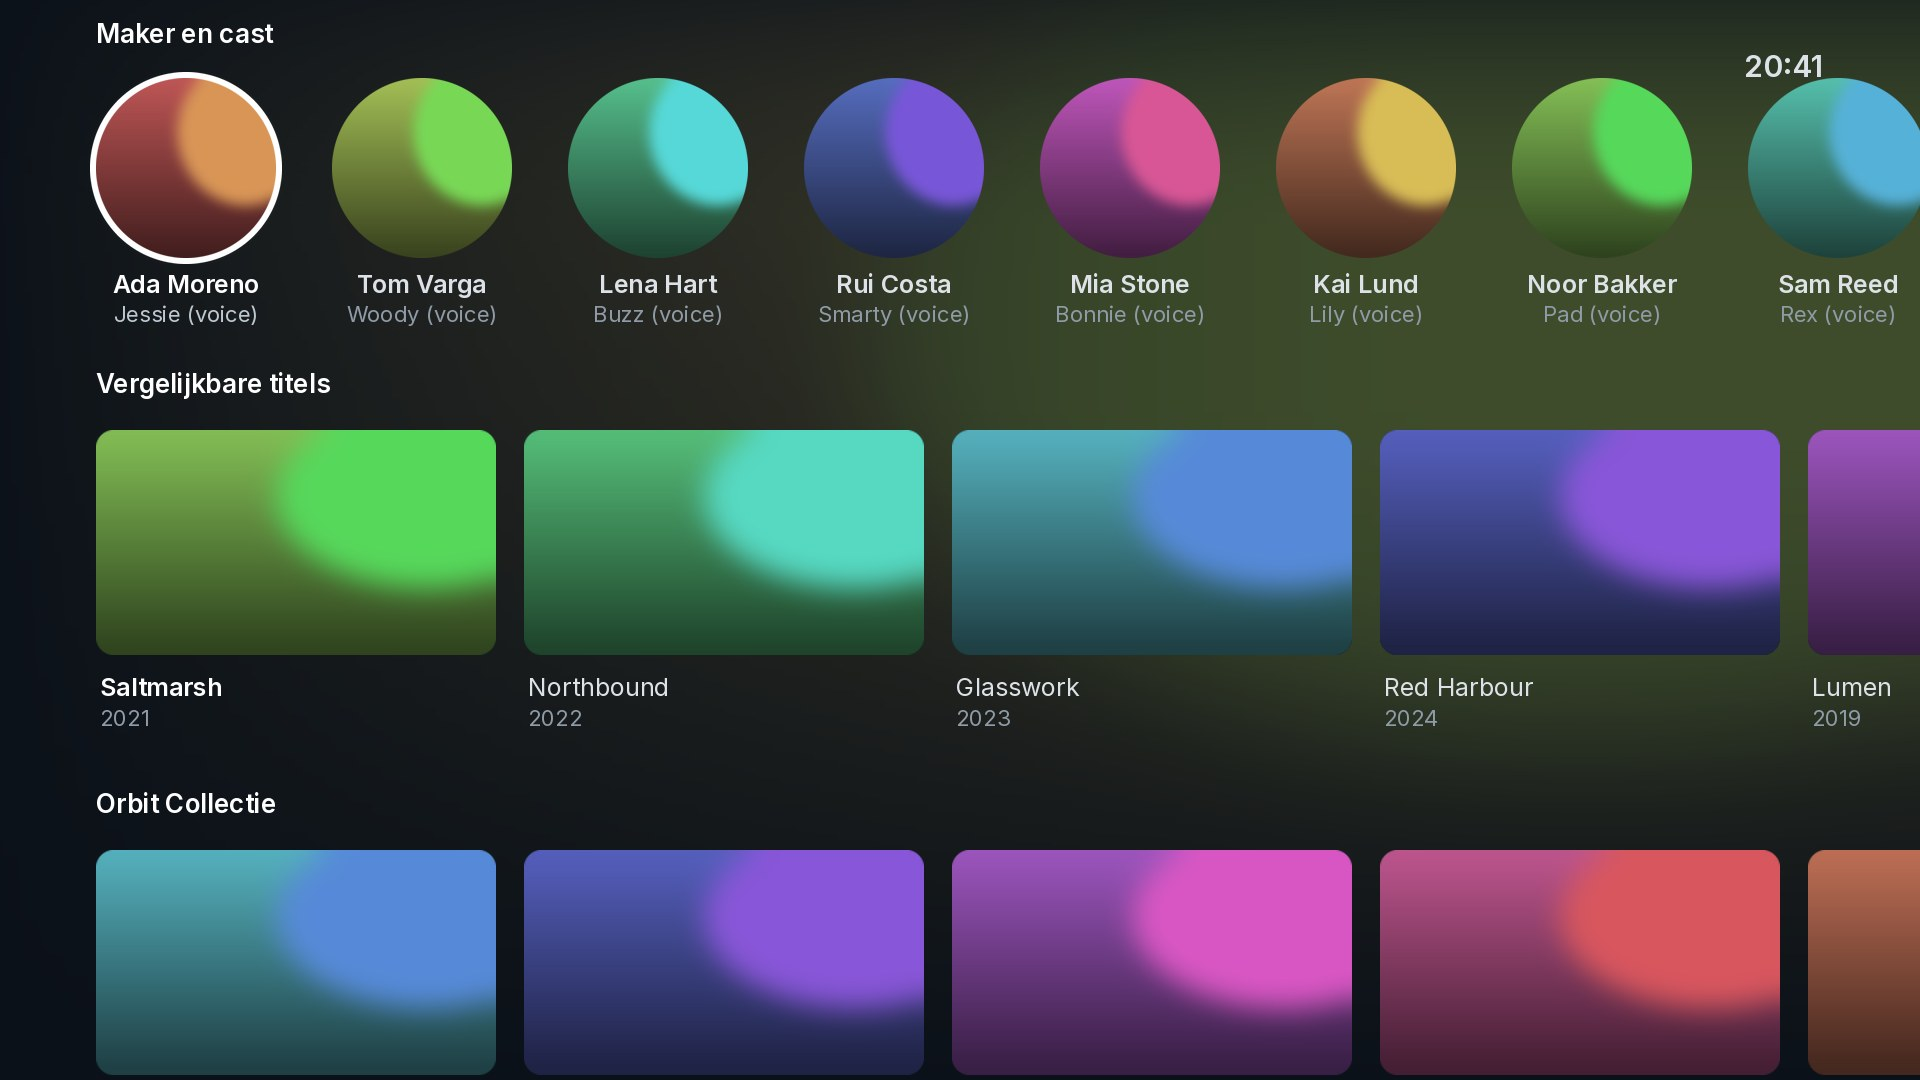
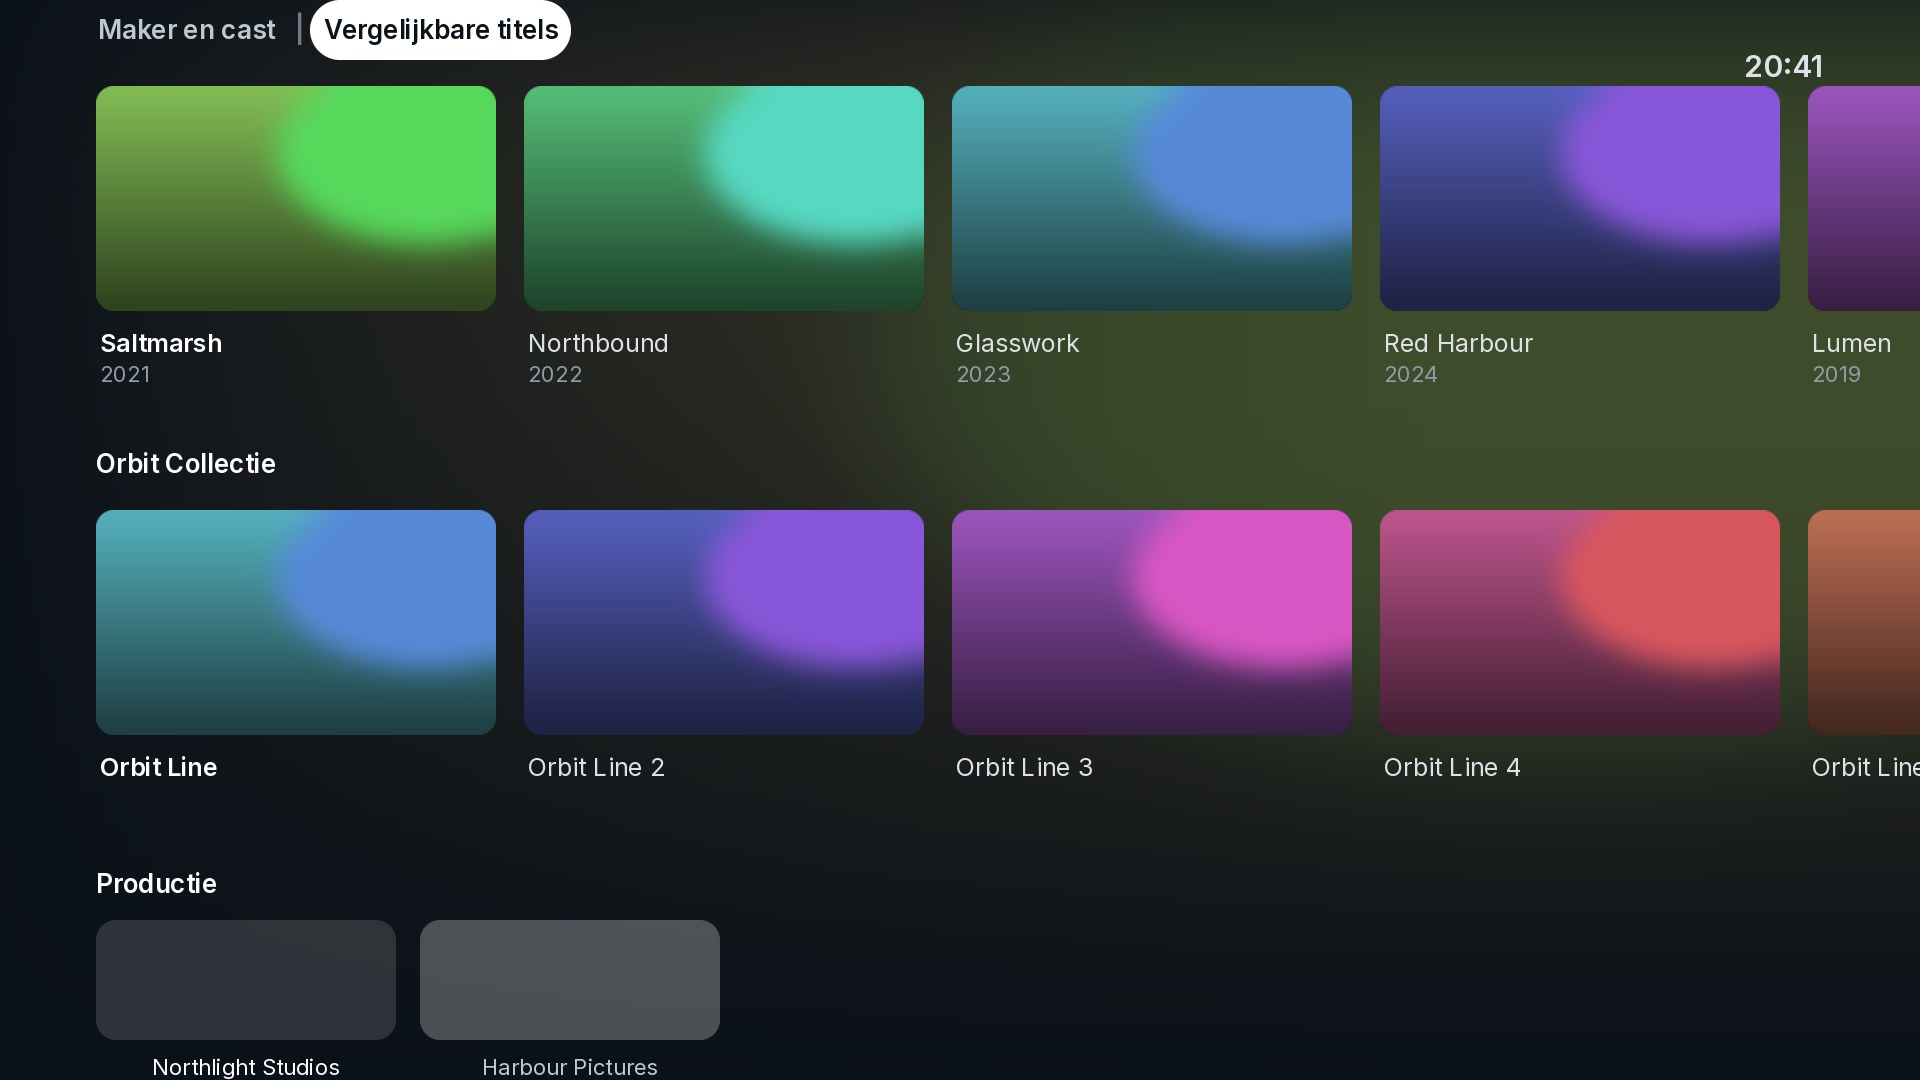
Nuvio Arc 1.2.1: tabs on the info page
Cast and crew | Similar titles | Trailers share one row; left/right on
the tab names switches the row. Trailers come from TMDB (YouTube) and play
with the YouTube add-on.

Claude-Session: https://claude.ai/code/session_013AfvwK9NqtE7ei35cRZkmt

diff --git a/scripts/info.py b/scripts/info.py
@@ -305,6 +305,40 @@ def load_collection(item):
     HOME.setProperty("nuvio.info.coll.count", str(len(parts)))
 
 
+VIDEO_TYPES = ["Trailer", "Teaser", "Clip", "Featurette", "Behind the Scenes"]
+MAX_VIDEOS = 12
+
+
+def load_videos(item):
+    """Fill nuvio.info.vid.* with the YouTube trailers TMDB knows for this title."""
+    for n in range(1, MAX_VIDEOS + 1):
+        for p in ("title", "sub", "thumb", "path"):
+            HOME.clearProperty(f"nuvio.info.vid.{n}.{p}")
+    HOME.setProperty("nuvio.info.vid.count", "0")
+    kind = {"movie": "movie", "tvshow": "tv"}.get(item.dbtype)
+    if not kind or not item.tmdb.isdigit():
+        return
+    try:
+        lang = "nl" if _NL else "en"
+        videos = tmdb(f"{kind}/{item.tmdb}/videos", include_video_language=f"{lang},en,null").get("results") or []
+    except Exception as error:  # noqa: BLE001
+        log(f"videos: {error}")
+        return
+    if HOME.getProperty("nuvio.info.key") != item.key:
+        return
+    videos = [v for v in videos if v.get("site") == "YouTube" and v.get("key")]
+    videos.sort(key=lambda v: (VIDEO_TYPES.index(v.get("type")) if v.get("type") in VIDEO_TYPES else 99,
+                               not v.get("official"), v.get("published_at") or ""))
+    videos = videos[:MAX_VIDEOS]
+    for n, video in enumerate(videos, start=1):
+        key = video["key"]
+        HOME.setProperty(f"nuvio.info.vid.{n}.title", video.get("name", ""))
+        HOME.setProperty(f"nuvio.info.vid.{n}.sub", f"{video.get('type', '')} · {(video.get('iso_639_1') or '').upper()}".strip(" ·"))
+        HOME.setProperty(f"nuvio.info.vid.{n}.thumb", f"https://img.youtube.com/vi/{key}/hqdefault.jpg")
+        HOME.setProperty(f"nuvio.info.vid.{n}.path", f"plugin://plugin.video.youtube/play/?video_id={key}")
+    HOME.setProperty("nuvio.info.vid.count", str(len(videos)))
+
+
 def load_studios():
     studios = [s.strip() for s in info("Studio").split("/") if s.strip()][:MAX_STUDIOS]
     for n in range(1, MAX_STUDIOS + 1):
@@ -316,6 +350,7 @@ def load():
     HOME.setProperty("nuvio.info.key", item.key)
     HOME.clearProperty("nuvio.info.watched")
     load_studios()
+    load_videos(item)
     load_collection(item)
 
 

diff --git a/README.md b/README.md
@@ -39,7 +39,7 @@ A slim icon rail that opens when you press left. Out of the box it has Search, H
 The skin picks a fitting view automatically. You can change it with the **View** button at the top right.
 
 ### Info page
-Everything on one page. At the top: logo, buttons, director, ratings (IMDb, TMDB, Trakt), plot, genres, release date and details. Scroll down for **cast**, **similar titles** (Seren), the **collection** the film belongs to (for example all Toy Story films, via TMDB) and the **production companies**.
+Everything on one page. At the top: logo, buttons, director, ratings (IMDb, TMDB, Trakt), plot, genres, release date and details. Scroll down for tabs **Cast and crew | Similar titles | Trailers** (left/right switches them), the **collection** the film belongs to (for example all Toy Story films, via TMDB) and the **production companies**.
 
 - **Library and lists** – tick where the title should be: your Seren library (Trakt collection), your Trakt watchlist and your own Trakt lists.
 - **Mark as watched** – marks it as watched or not watched on Trakt.
@@ -85,11 +85,11 @@ The video player and its menu, the video player and its menu, seek bar, subtitle
 
 ## Installation
 
-1. Download `skin.nuvioarc-1.2.0.zip` from the [Releases page](../../releases/latest).
+1. Download `skin.nuvioarc-1.2.1.zip` from the [Releases page](../../releases/latest).
    Don't use the green **Code → Download ZIP** button: Kodi needs the folder inside the zip to be called `skin.nuvioarc`, and only the release zip is built that way.
 2. Copy the file to your device, for example to the *Download* folder.
 3. In Kodi, go to **Settings → System → Add-ons** and switch on **Unknown sources**.
-4. Go to **Add-ons → Install from zip file** and select `skin.nuvioarc-1.2.0.zip`.
+4. Go to **Add-ons → Install from zip file** and select `skin.nuvioarc-1.2.1.zip`.
 5. Kodi asks whether you want to use the new skin. Choose **Yes**.
    (Later: **Settings → Interface → Skin → Nuvio Arc**.)
 
